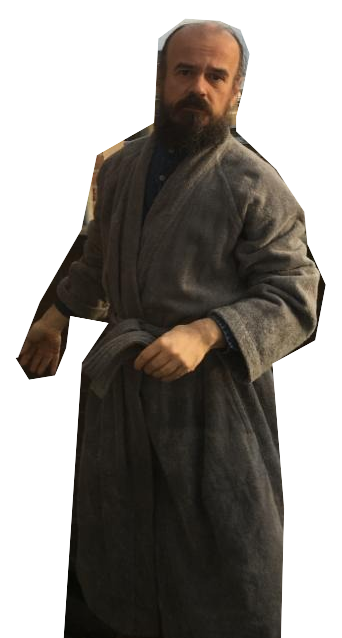
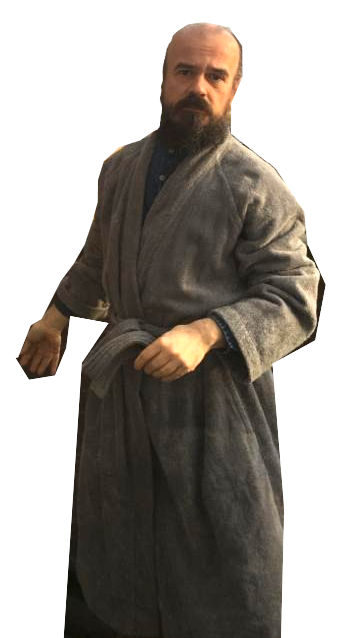
develop: nudge movement

diff --git a/src/components/january/January.js b/src/components/january/January.js
@@ -170,26 +170,38 @@ class January {
     // eslint-disable-next-line no-invalid-this
     const self = this
     const { scene, _options, camera } = self
-    let { f, activeItem, activeItemIndex } = self
+
     camera.position.z = camera.position.z - _options.speed
     camera.position.y =
-      (f * Math.sin(f / _options.camera.swing)) / _options.camera.far
-    f++
+      (self.f * Math.sin(self.f / _options.camera.swing)) / _options.camera.far
+    self.f++
 
     const currentItemIndex = Math.round(
-      (f / _options.sceneItem.spacing) * _options.speed
+      (self.f / _options.sceneItem.spacing) * _options.speed
     )
 
-    if (currentItemIndex > activeItemIndex) {
-      activeItemIndex = currentItemIndex
+    if (currentItemIndex > self.activeItemIndex) {
+      self.activeItemIndex = currentItemIndex
 
-      activeItem = scene.getObjectByName(
-        `znak-${_options.imageCount - activeItemIndex + 1}`
+      self.activeItem = scene.getObjectByName(
+        `znak-${_options.imageCount - self.activeItemIndex + 1}`
       )
-      activeItem.geometry.needsUpdate = true
+      self.activeItem.geometry.needsUpdate = true
     }
 
-    camera.rotateY(_options.camera.nudge * Math.cos(f))
+    if (self.activeItem) {
+      self.activeItem.rotateZ(
+        _options.sceneItem.movementSpeed *
+          (self._isDivisibleBy(
+            currentItemIndex,
+            _options.sceneItem.reverseSideRate
+          )
+            ? 1
+            : -1)
+      )
+    }
+
+    camera.rotateY(_options.camera.nudge * Math.cos(self.f))
     self._render()
     requestAnimationFrame(self._animate)
   }
